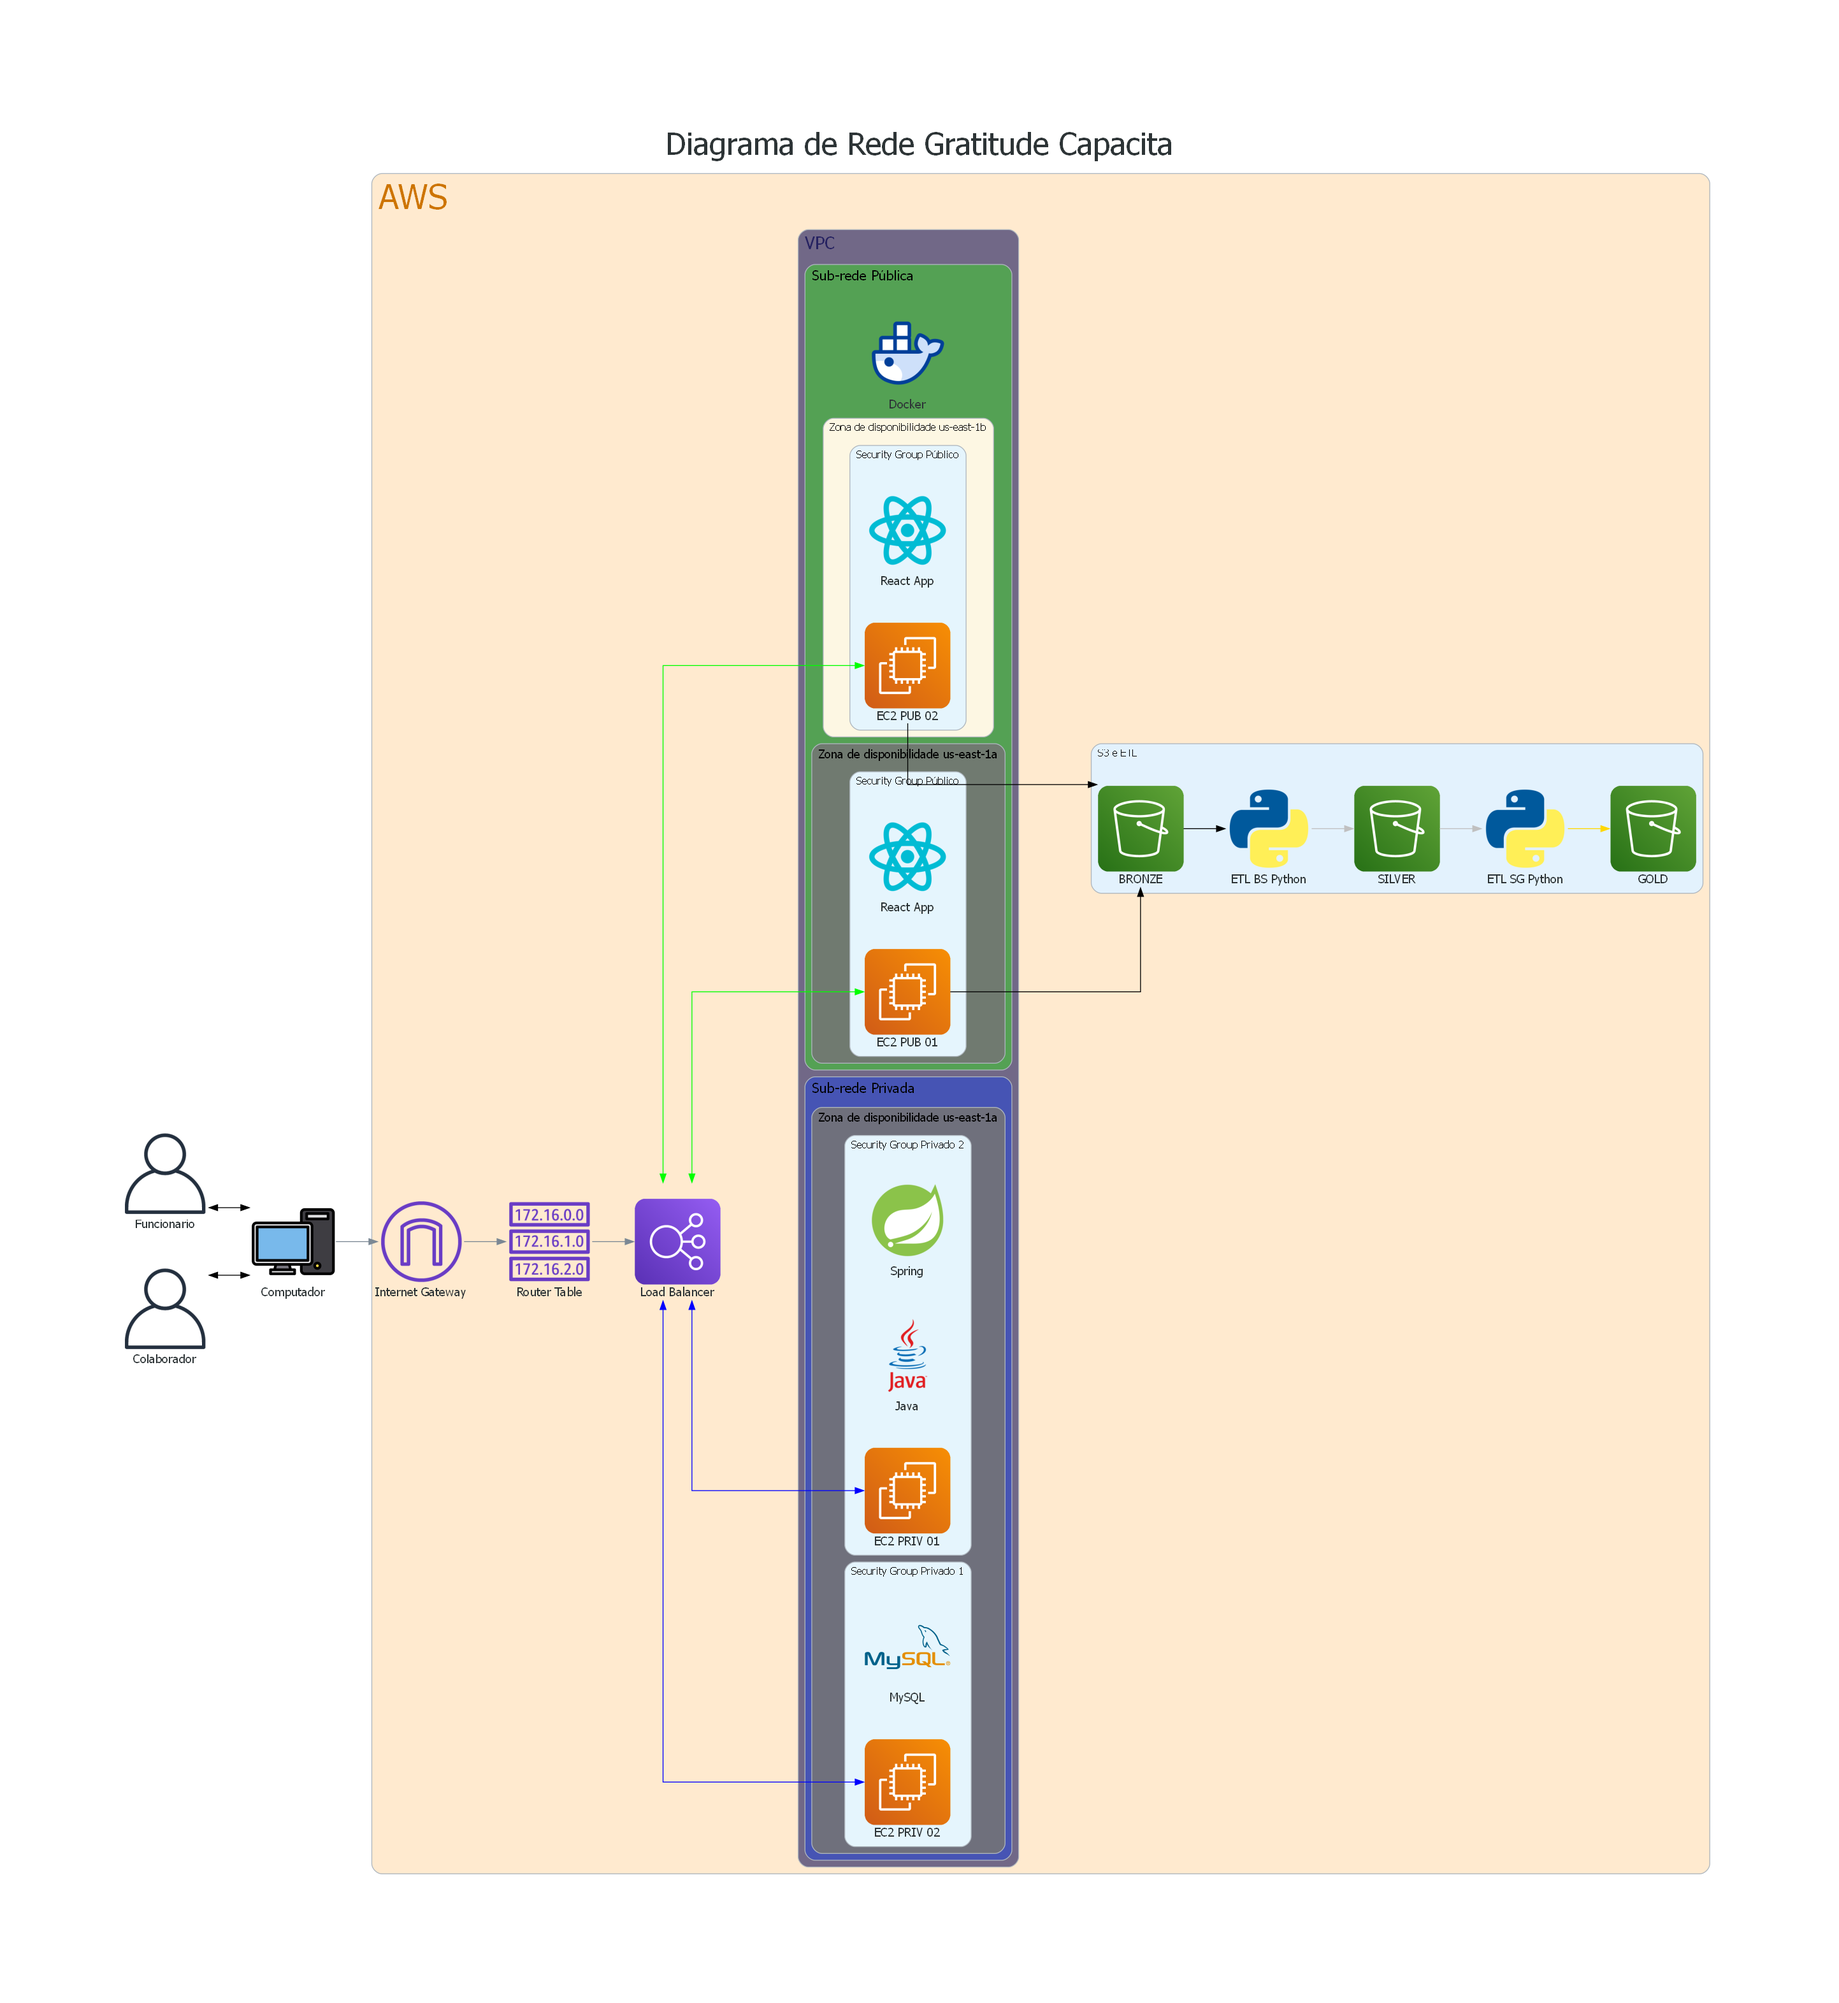
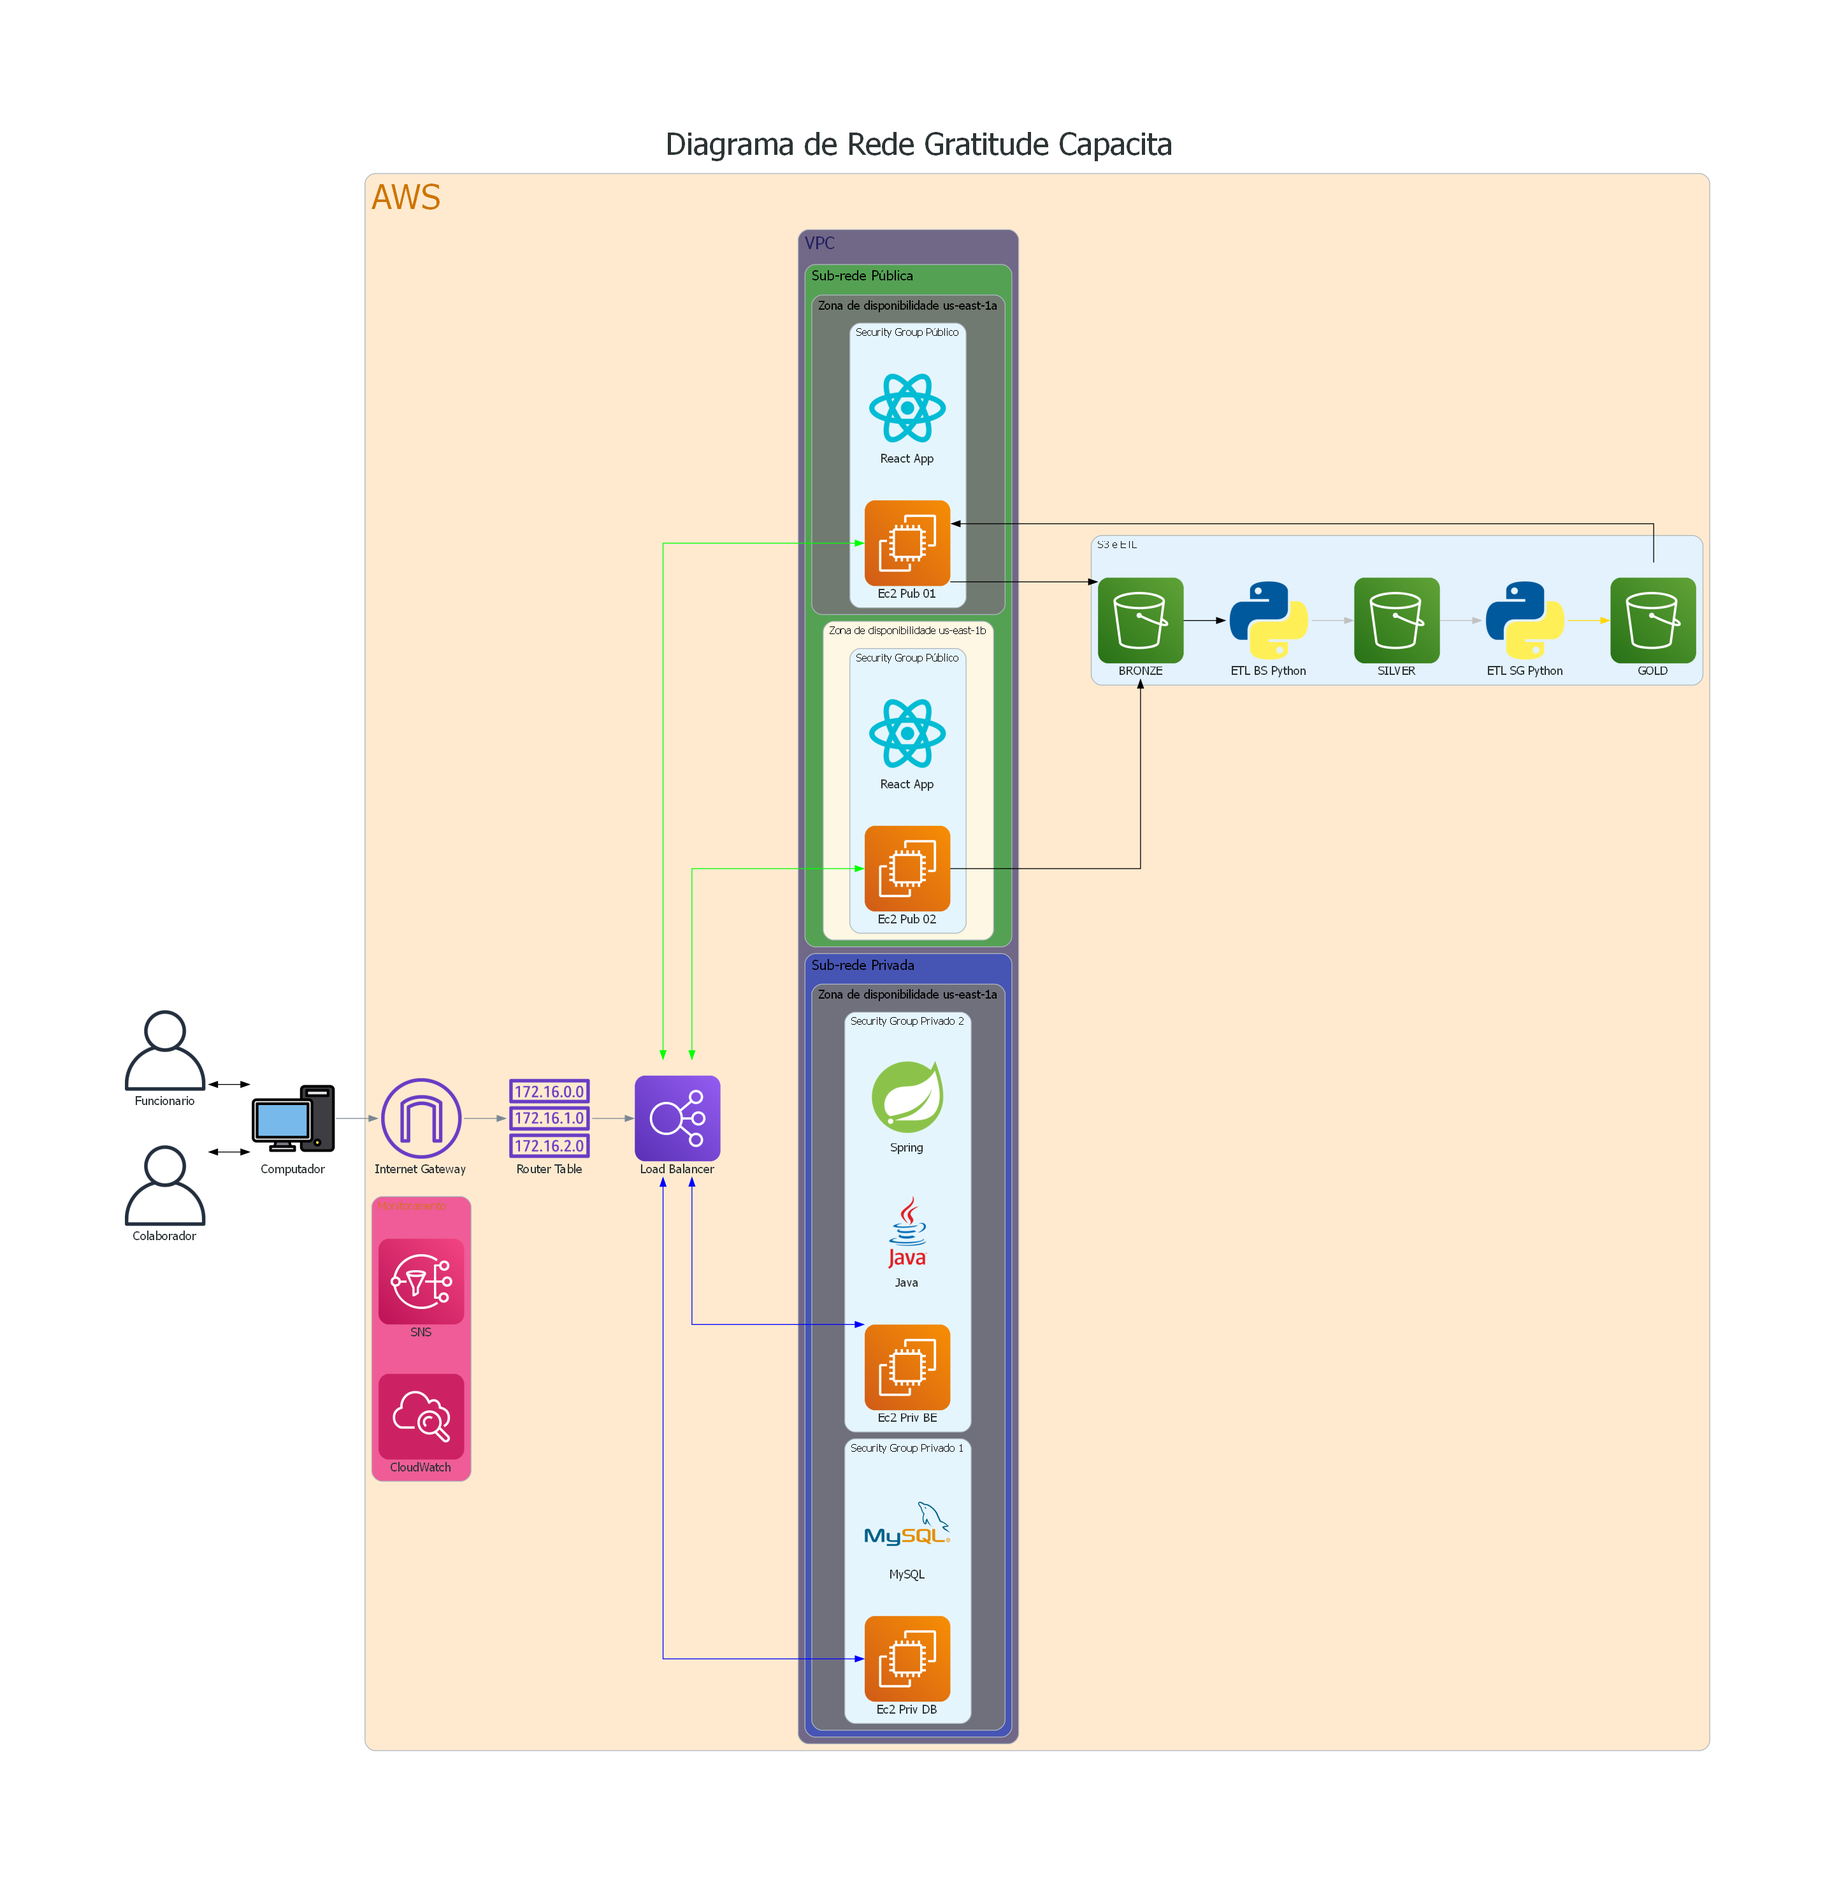
Fix: Adicionando o monitoramento novamnete e dados da camada GOLD

Changed region(s): [[0.0624, 0.0624, 0.9356, 0.9356], [0.5925, 0.2807, 0.9356, 0.4678]]

diff --git a/Diagrams/diagrama_redes.py b/Diagrams/diagrama_redes.py
@@ -9,6 +9,8 @@ from diagrams.programming.language import Python
 from diagrams.programming.language import Java
 from diagrams.programming.framework import React
 from diagrams.programming.framework import Spring
+from diagrams.aws.management import Cloudwatch
+from diagrams.aws.integration import SimpleNotificationServiceSns as SNS
 
 with Diagram(
     name = "Diagrama de Rede Gratitude Capacita",
@@ -40,21 +42,20 @@ with Diagram(
                 with Cluster("Zona de disponibilidade us-east-1a", graph_attr={"bgcolor": "#747474e0", "fontsize": "14", "fontcolor": "#000000"}):
                     with Cluster("Security Group Privado 1", graph_attr={"fontcolor": "#000000"}):
                         mysql = Custom("MySQL", "Diagrams/Icons/MySQL.png")
-                        ec2_priv_02 = EC2("EC2 PRIV 02")
+                        ec2_priv_db = EC2("Ec2 Priv DB")
                     with Cluster("Security Group Privado 2", graph_attr={"fontcolor": "#000000"}):
                         java = Java("Java")
                         spring = Spring("Spring")
-                        ec2_priv_01 = EC2("EC2 PRIV 01")
+                        ec2_priv_be = EC2("Ec2 Priv BE")
 
             with Cluster("Sub-rede Pública", graph_attr={"bgcolor": "#26ff0060", "fontsize": "16", "fontcolor": "#000000"}):
-                docker = Docker("Docker")
                 with Cluster("Zona de disponibilidade us-east-1a", graph_attr={"bgcolor": "#747474e0", "fontsize": "14", "fontcolor": "#000000"}):
                     with Cluster("Security Group Público", graph_attr={"fontcolor": "#000000"}):
-                        ec2_pub_01 = EC2("EC2 PUB 01")
+                        ec2_pub_01 = EC2("Ec2 Pub 01")
                         react = React("React App")
                 with Cluster("Zona de disponibilidade us-east-1b"):
                     with Cluster("Security Group Público", graph_attr={"fontcolor": "#000000"}):
-                        ec2_pub_02 = EC2("EC2 PUB 02")
+                        ec2_pub_02 = EC2("Ec2 Pub 02")
                         react_icon = React("React App")
 
         # S3 e ETL cluster ao lado das sub-redes
@@ -65,16 +66,21 @@ with Diagram(
             etl_bs = Python("ETL BS Python")
             etl_sg = Python("ETL SG Python")
 
+        with Cluster("Monitoramento", graph_attr={"bgcolor": "#e7157baa"}):
+            cloudwatch = Cloudwatch("CloudWatch")
+            sns = SNS("SNS")
+
         # Ligações horizontais
-        ec2_pub_01 >> Edge(color="black") >> bronze
+        ec2_pub_01 >> Edge(color="black") >> bronze     
         ec2_pub_02 >> Edge(color="black") >> bronze
         bronze >> Edge(color="bronze") >> etl_bs
         etl_bs >> Edge(color="silver") >> silver
         silver >> Edge(color="silver") >> etl_sg
         etl_sg >> Edge(color="gold") >> gold
+        gold >> Edge(color="black") >> ec2_pub_01
 
         lb << Edge(color="green") >> ec2_pub_01
         lb << Edge(color="green") >> ec2_pub_02
-        lb << Edge(color="blue") >> ec2_priv_01
-        lb << Edge(color="blue") >> ec2_priv_02
+        lb << Edge(color="blue") >> ec2_priv_be
+        lb << Edge(color="blue") >> ec2_priv_db
 
